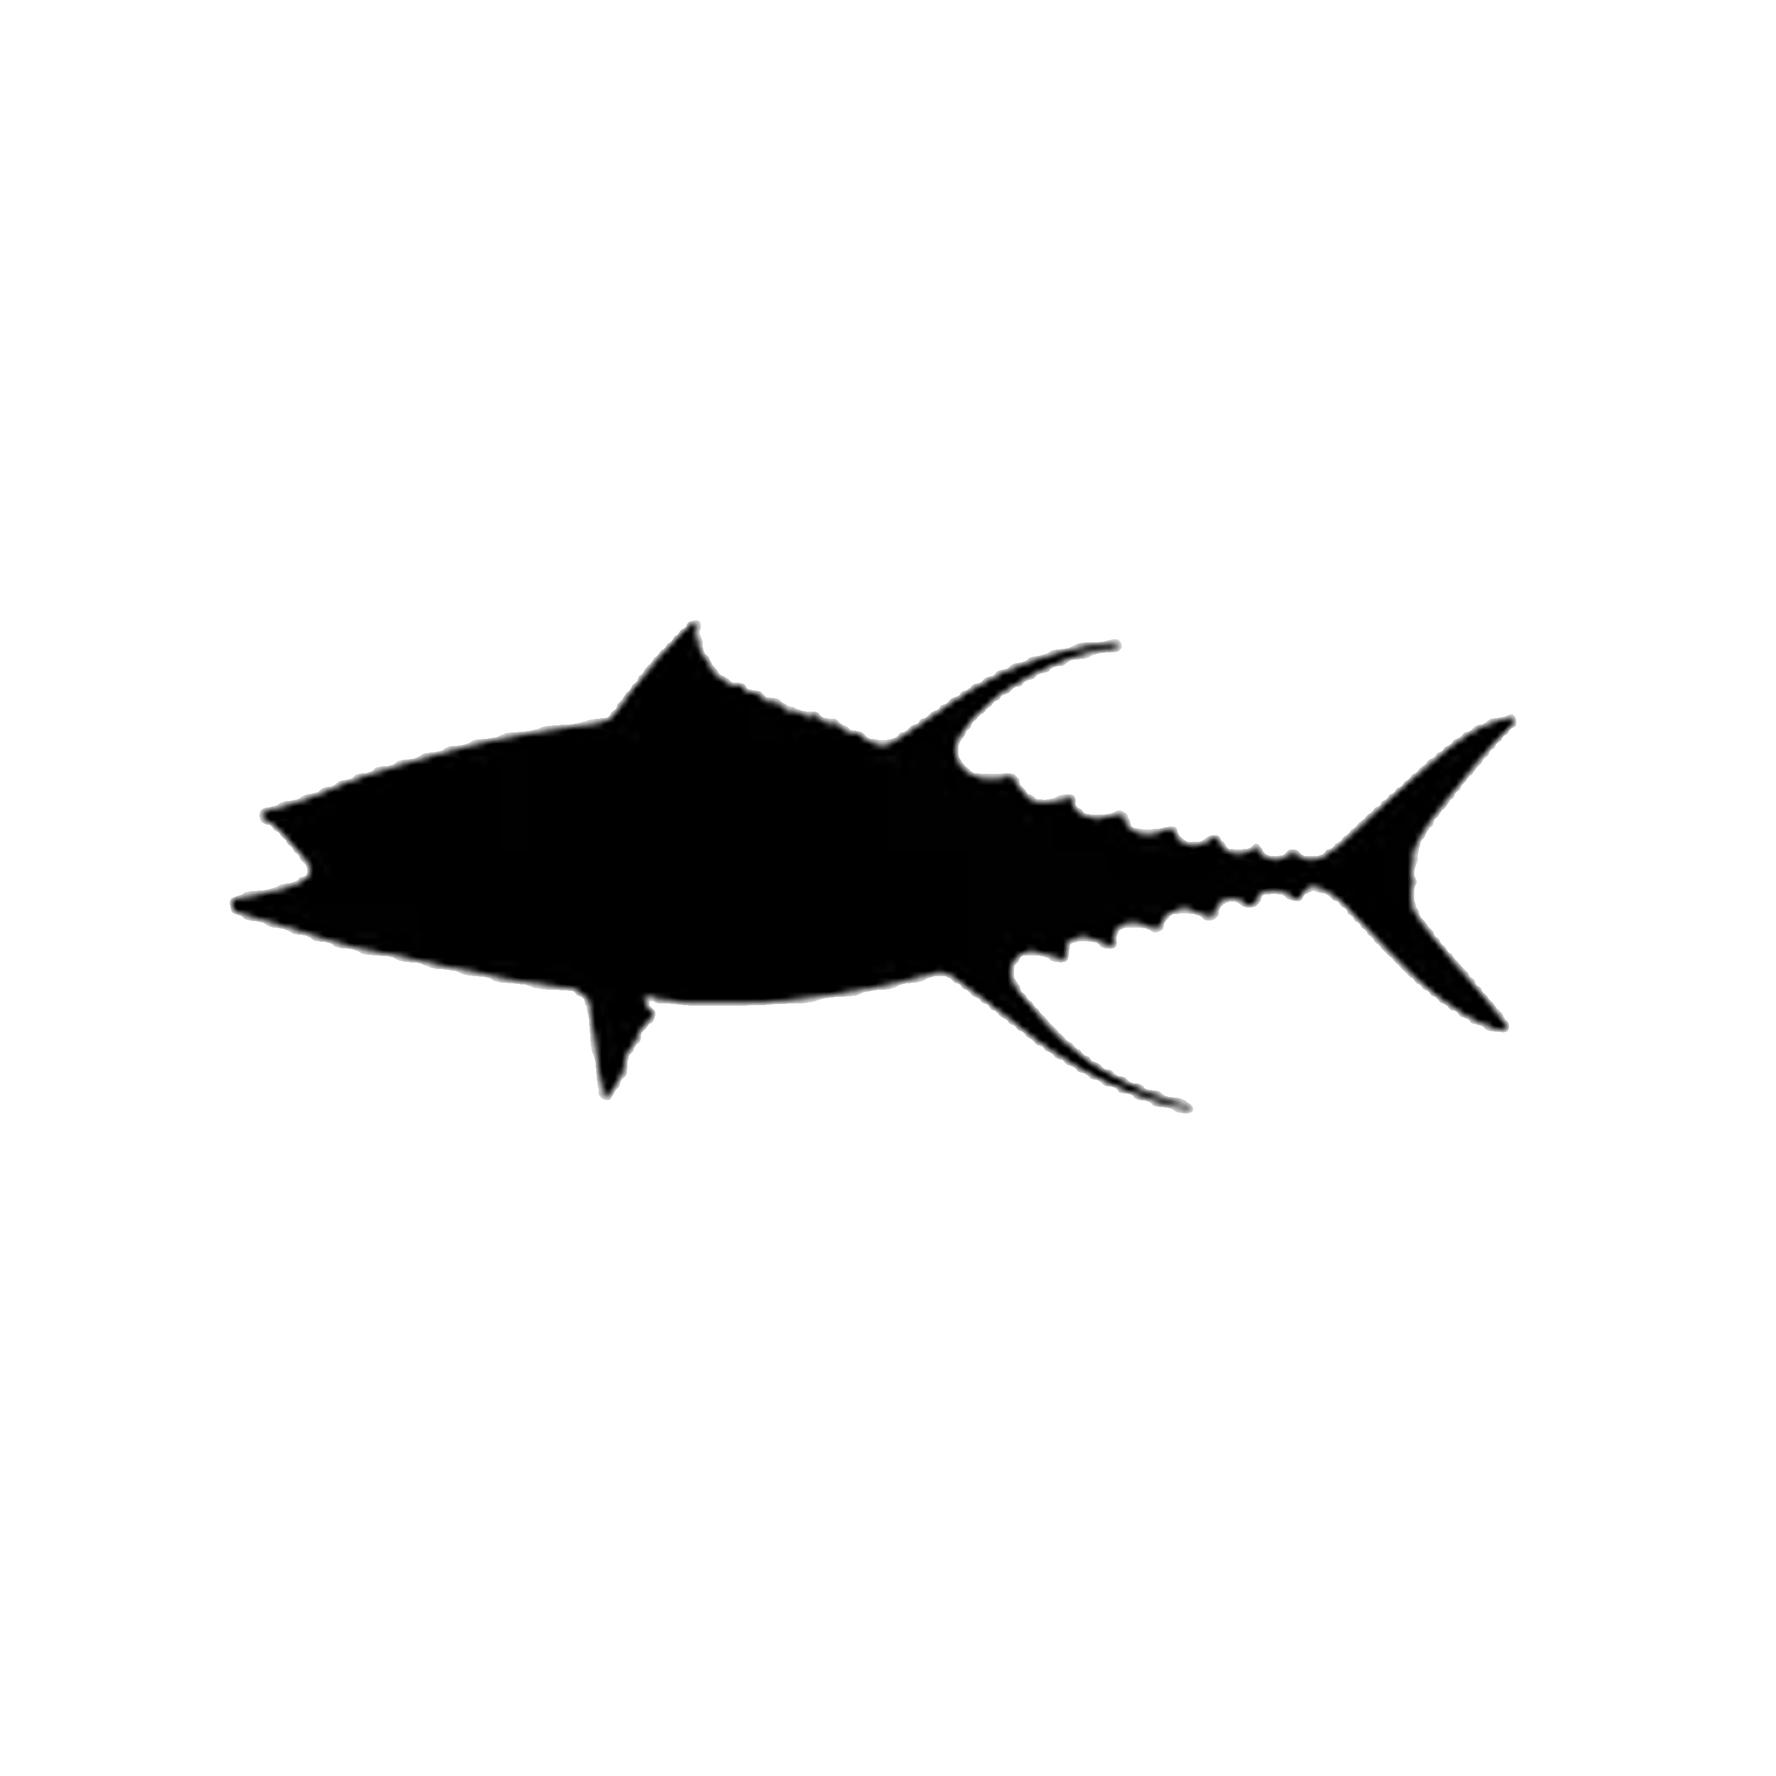
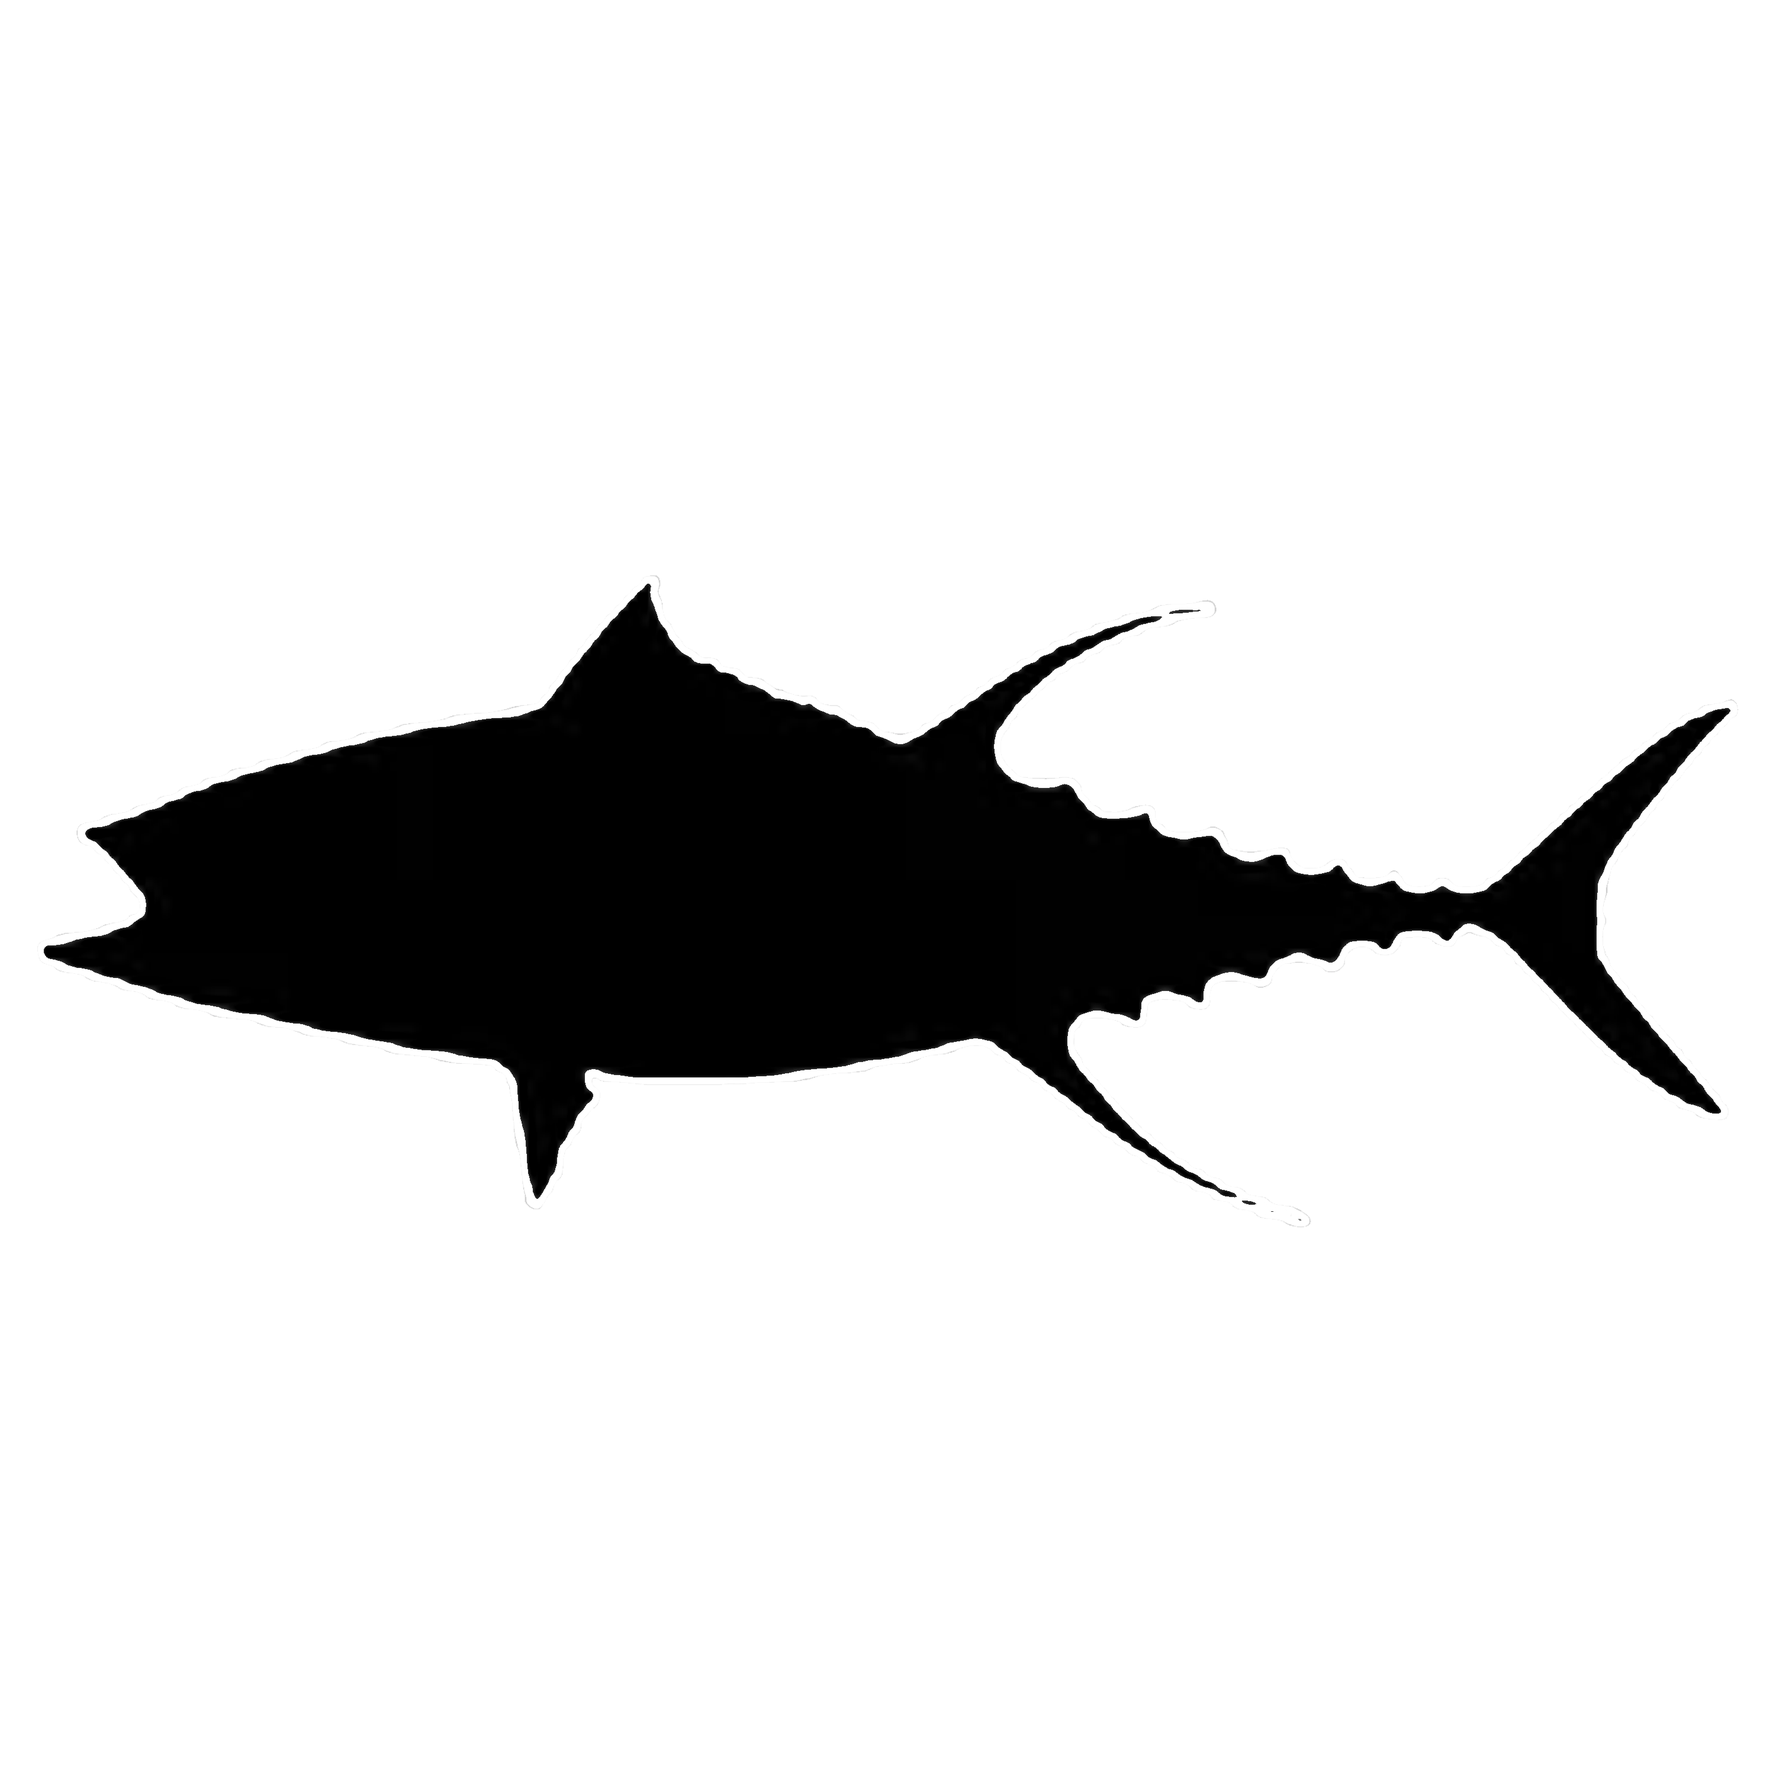
New entries added

diff --git a/Ranger/Assets/Scripts/NPC/JournalEntries.cs b/Ranger/Assets/Scripts/NPC/JournalEntries.cs
@@ -112,47 +112,6 @@ public class JournalEntries : MonoBehaviour
                     _missingEntry.enabled = false;
                     _talkToRanger.enabled = false;
 
-                    _panelImage.sprite = _sprites[0];
-
-                    _journalColour.GetComponent<Image>().color = color;
-                }
-                else
-                {
-                    color = Color.magenta;
-                    color.a = 0.75f;
-
-                    _title.enabled = false;
-                    _entry.enabled = false;
-
-                    _missingEntry.enabled = true;
-                    _talkToRanger.enabled = true;
-
-                    _panelImage.sprite = _sprites[9];
-
-                    _journalColour.GetComponent<Image>().color = color;
-                }
-                _title.SetText("Ladybug");
-                _entry.SetText("A distinguished gentleman.");
-                break;
-            case 1:
-                _pageNumber.SetText("2/18");
-                if (_enable2 == true)
-                {
-                    color = Color.magenta;
-                    color.a = 0.75f;
-
-                    if (!_added2)
-                    {
-                        _collectionPercentage.AddNewEntry();
-                        _added2 = true;
-                    }
-
-                    _title.enabled = true;
-                    _entry.enabled = true;
-
-                    _missingEntry.enabled = false;
-                    _talkToRanger.enabled = false;
-
                     _panelImage.sprite = _sprites[1];
 
                     _journalColour.GetComponent<Image>().color = color;
@@ -172,20 +131,20 @@ public class JournalEntries : MonoBehaviour
 
                     _journalColour.GetComponent<Image>().color = color;
                 }
-                _title.SetText("Catterpillar");
-                _entry.SetText("There is a catter-pile of them.");
+                _title.SetText("Ladybug");
+                _entry.SetText("A distinguished gentleman.");
                 break;
-            case 2:
-                _pageNumber.SetText("3/18");
-                if (_enable3 == true)
+            case 1:
+                _pageNumber.SetText("2/18");
+                if (_enable2 == true)
                 {
                     color = Color.magenta;
                     color.a = 0.75f;
 
-                    if (!_added3)
+                    if (!_added2)
                     {
                         _collectionPercentage.AddNewEntry();
-                        _added3 = true;
+                        _added2 = true;
                     }
 
                     _title.enabled = true;
@@ -213,8 +172,49 @@ public class JournalEntries : MonoBehaviour
 
                     _journalColour.GetComponent<Image>().color = color;
                 }
+                _title.SetText("Catterpillar");
+                _entry.SetText("There is a catter-pile of them.");
+                break;
+            case 2:
+                _pageNumber.SetText("3/18");
+                if (_enable3 == true)
+                {
+                    color = Color.magenta;
+                    color.a = 0.75f;
+
+                    if (!_added3)
+                    {
+                        _collectionPercentage.AddNewEntry();
+                        _added3 = true;
+                    }
+
+                    _title.enabled = true;
+                    _entry.enabled = true;
+
+                    _missingEntry.enabled = false;
+                    _talkToRanger.enabled = false;
+
+                    _panelImage.sprite = _sprites[20];
+
+                    _journalColour.GetComponent<Image>().color = color;
+                }
+                else
+                {
+                    color = Color.magenta;
+                    color.a = 0.75f;
+
+                    _title.enabled = false;
+                    _entry.enabled = false;
+
+                    _missingEntry.enabled = true;
+                    _talkToRanger.enabled = true;
+
+                    _panelImage.sprite = _sprites[29];
+
+                    _journalColour.GetComponent<Image>().color = color;
+                }
                 _title.SetText("Weevil");
-                _entry.SetText("We will bug you.");
+                _entry.SetText("We will bug you."); 
                 break;
             case 3:
                 _pageNumber.SetText("4/18");
@@ -235,7 +235,7 @@ public class JournalEntries : MonoBehaviour
                     _missingEntry.enabled = false;
                     _talkToRanger.enabled = false;
 
-                    _panelImage.sprite = _sprites[3];
+                    _panelImage.sprite = _sprites[0];
 
                     _journalColour.GetComponent<Image>().color = color;
                 }
@@ -250,14 +250,13 @@ public class JournalEntries : MonoBehaviour
                     _missingEntry.enabled = true;
                     _talkToRanger.enabled = true;
 
-                    _panelImage.sprite = _sprites[12];
+                    _panelImage.sprite = _sprites[9];
 
                     _journalColour.GetComponent<Image>().color = color;
                 }
                 _title.SetText("Moth");
                 _entry.SetText("It was no flyby.");
                 break;
-
             case 4:
                 _pageNumber.SetText("5/18");
                 if (_enable5 == true)
@@ -277,7 +276,7 @@ public class JournalEntries : MonoBehaviour
                     _missingEntry.enabled = false;
                     _talkToRanger.enabled = false;
 
-                    _panelImage.sprite = _sprites[4];
+                    _panelImage.sprite = _sprites[19];
 
                     _journalColour.GetComponent<Image>().color = color;
                 }
@@ -292,7 +291,7 @@ public class JournalEntries : MonoBehaviour
                     _missingEntry.enabled = true;
                     _talkToRanger.enabled = true;
 
-                    _panelImage.sprite = _sprites[13];
+                    _panelImage.sprite = _sprites[28];
 
                     _journalColour.GetComponent<Image>().color = color;
                 }
@@ -318,7 +317,7 @@ public class JournalEntries : MonoBehaviour
                     _missingEntry.enabled = false;
                     _talkToRanger.enabled = false;
 
-                    _panelImage.sprite = _sprites[5];
+                    _panelImage.sprite = _sprites[18];
 
                     _journalColour.GetComponent<Image>().color = color;
                 }
@@ -333,7 +332,7 @@ public class JournalEntries : MonoBehaviour
                     _missingEntry.enabled = true;
                     _talkToRanger.enabled = true;
 
-                    _panelImage.sprite = _sprites[14];
+                    _panelImage.sprite = _sprites[27];
 
                     _journalColour.GetComponent<Image>().color = color;
                 }
@@ -360,7 +359,7 @@ public class JournalEntries : MonoBehaviour
                     _missingEntry.enabled = false;
                     _talkToRanger.enabled = false;
 
-                    _panelImage.sprite = _sprites[6];
+                    _panelImage.sprite = _sprites[3];
 
                     _journalColour.GetComponent<Image>().color = color;
                 }
@@ -375,7 +374,7 @@ public class JournalEntries : MonoBehaviour
                     _missingEntry.enabled = true;
                     _talkToRanger.enabled = true;
 
-                    _panelImage.sprite = _sprites[15];
+                    _panelImage.sprite = _sprites[12];
 
                     _journalColour.GetComponent<Image>().color = color;
                 }
@@ -401,7 +400,7 @@ public class JournalEntries : MonoBehaviour
                     _missingEntry.enabled = false;
                     _talkToRanger.enabled = false;
 
-                    _panelImage.sprite = _sprites[7];
+                    _panelImage.sprite = _sprites[4];
 
                     _journalColour.GetComponent<Image>().color = color;
                 }
@@ -416,7 +415,7 @@ public class JournalEntries : MonoBehaviour
                     _missingEntry.enabled = true;
                     _talkToRanger.enabled = true;
 
-                    _panelImage.sprite = _sprites[16];
+                    _panelImage.sprite = _sprites[13];
 
                     _journalColour.GetComponent<Image>().color = color;
                 }
@@ -442,7 +441,7 @@ public class JournalEntries : MonoBehaviour
                     _missingEntry.enabled = false;
                     _talkToRanger.enabled = false;
 
-                    _panelImage.sprite = _sprites[8];
+                    _panelImage.sprite = _sprites[5];
 
                     _journalColour.GetComponent<Image>().color = color;
                 }
@@ -457,7 +456,7 @@ public class JournalEntries : MonoBehaviour
                     _missingEntry.enabled = true;
                     _talkToRanger.enabled = true;
 
-                    _panelImage.sprite = _sprites[17];
+                    _panelImage.sprite = _sprites[14];
 
                     _journalColour.GetComponent<Image>().color = color;
                 }
@@ -483,7 +482,7 @@ public class JournalEntries : MonoBehaviour
                     _missingEntry.enabled = false;
                     _talkToRanger.enabled = false;
 
-                    _panelImage.sprite = _sprites[8];
+                    _panelImage.sprite = _sprites[21];
 
                     _journalColour.GetComponent<Image>().color = color;
                 }
@@ -498,7 +497,7 @@ public class JournalEntries : MonoBehaviour
                     _missingEntry.enabled = true;
                     _talkToRanger.enabled = true;
 
-                    _panelImage.sprite = _sprites[17];
+                    _panelImage.sprite = _sprites[30];
 
                     _journalColour.GetComponent<Image>().color = color;
                 }
@@ -524,7 +523,7 @@ public class JournalEntries : MonoBehaviour
                     _missingEntry.enabled = false;
                     _talkToRanger.enabled = false;
 
-                    _panelImage.sprite = _sprites[8];
+                    _panelImage.sprite = _sprites[22];
 
                     _journalColour.GetComponent<Image>().color = color;
                 }
@@ -539,7 +538,7 @@ public class JournalEntries : MonoBehaviour
                     _missingEntry.enabled = true;
                     _talkToRanger.enabled = true;
 
-                    _panelImage.sprite = _sprites[17];
+                    _panelImage.sprite = _sprites[31];
 
                     _journalColour.GetComponent<Image>().color = color;
                 }
@@ -565,7 +564,7 @@ public class JournalEntries : MonoBehaviour
                     _missingEntry.enabled = false;
                     _talkToRanger.enabled = false;
 
-                    _panelImage.sprite = _sprites[8];
+                    _panelImage.sprite = _sprites[23];
 
                     _journalColour.GetComponent<Image>().color = color;
                 }
@@ -580,7 +579,7 @@ public class JournalEntries : MonoBehaviour
                     _missingEntry.enabled = true;
                     _talkToRanger.enabled = true;
 
-                    _panelImage.sprite = _sprites[17];
+                    _panelImage.sprite = _sprites[32];
 
                     _journalColour.GetComponent<Image>().color = color;
                 }
@@ -607,7 +606,7 @@ public class JournalEntries : MonoBehaviour
                     _missingEntry.enabled = false;
                     _talkToRanger.enabled = false;
 
-                    _panelImage.sprite = _sprites[8];
+                    _panelImage.sprite = _sprites[6];
 
                     _journalColour.GetComponent<Image>().color = color;
                 }
@@ -622,7 +621,7 @@ public class JournalEntries : MonoBehaviour
                     _missingEntry.enabled = true;
                     _talkToRanger.enabled = true;
 
-                    _panelImage.sprite = _sprites[17];
+                    _panelImage.sprite = _sprites[15];
 
                     _journalColour.GetComponent<Image>().color = color;
                 }
@@ -648,7 +647,7 @@ public class JournalEntries : MonoBehaviour
                     _missingEntry.enabled = false;
                     _talkToRanger.enabled = false;
 
-                    _panelImage.sprite = _sprites[8];
+                    _panelImage.sprite = _sprites[7];
 
                     _journalColour.GetComponent<Image>().color = color;
                 }
@@ -663,7 +662,7 @@ public class JournalEntries : MonoBehaviour
                     _missingEntry.enabled = true;
                     _talkToRanger.enabled = true;
 
-                    _panelImage.sprite = _sprites[17];
+                    _panelImage.sprite = _sprites[16];
 
                     _journalColour.GetComponent<Image>().color = color;
                 }
@@ -730,7 +729,7 @@ public class JournalEntries : MonoBehaviour
                     _missingEntry.enabled = false;
                     _talkToRanger.enabled = false;
 
-                    _panelImage.sprite = _sprites[8];
+                    _panelImage.sprite = _sprites[24];
 
                     _journalColour.GetComponent<Image>().color = color;
                 }
@@ -745,7 +744,7 @@ public class JournalEntries : MonoBehaviour
                     _missingEntry.enabled = true;
                     _talkToRanger.enabled = true;
 
-                    _panelImage.sprite = _sprites[17];
+                    _panelImage.sprite = _sprites[33];
 
                     _journalColour.GetComponent<Image>().color = color;
                 }
@@ -771,7 +770,7 @@ public class JournalEntries : MonoBehaviour
                     _missingEntry.enabled = false;
                     _talkToRanger.enabled = false;
 
-                    _panelImage.sprite = _sprites[8];
+                    _panelImage.sprite = _sprites[26];
 
                     _journalColour.GetComponent<Image>().color = color;
                 }
@@ -786,7 +785,7 @@ public class JournalEntries : MonoBehaviour
                     _missingEntry.enabled = true;
                     _talkToRanger.enabled = true;
 
-                    _panelImage.sprite = _sprites[17];
+                    _panelImage.sprite = _sprites[35];
 
                     _journalColour.GetComponent<Image>().color = color;
                 }
@@ -812,7 +811,7 @@ public class JournalEntries : MonoBehaviour
                     _missingEntry.enabled = false;
                     _talkToRanger.enabled = false;
 
-                    _panelImage.sprite = _sprites[8];
+                    _panelImage.sprite = _sprites[25];
 
                     _journalColour.GetComponent<Image>().color = color;
                 }
@@ -827,7 +826,7 @@ public class JournalEntries : MonoBehaviour
                     _missingEntry.enabled = true;
                     _talkToRanger.enabled = true;
 
-                    _panelImage.sprite = _sprites[17];
+                    _panelImage.sprite = _sprites[34];
 
                     _journalColour.GetComponent<Image>().color = color;
                 }
